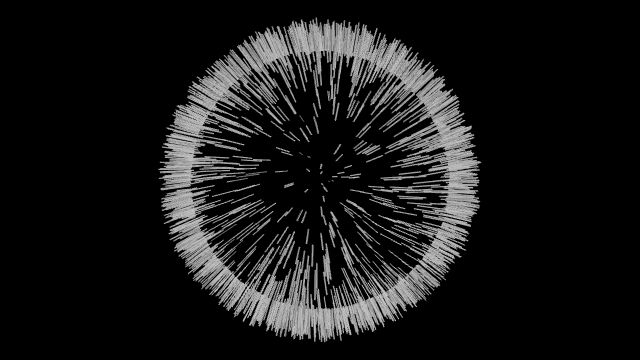
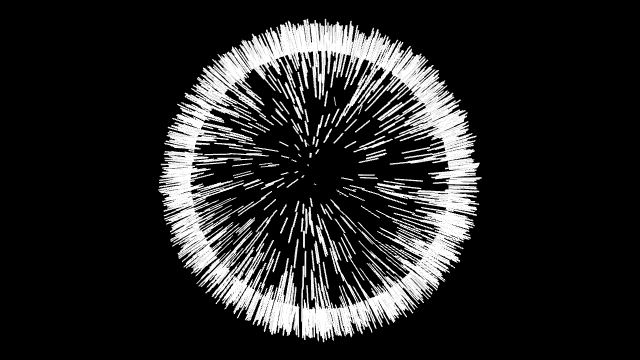
fix(3D): beginShape3D(.lines) / (.points) を stroke の色で描く (#739)
線・点のモードでも頂点へ fill 色を焼き込んでいたため、`stroke(緑)` を指定しても
塗りは fill 色のままだった。Processing の LINES / POINTS は `stroke()` が色を決める。

`.lines` / `.points` のときは `strokeColor` を焼き込むようにした（`bakedVertexColor`）。
`stroke()` を頂点の途中で変えれば線分ごと・点ごとに色が変わり、面モードで `fill()` を
変えるのと同じ書き味になる。`vertex(x, y, z, color)` で明示した色はこの経路を通らない
ので今までどおり勝ち、#825 の点ごとの色分けは保たれる。`noStroke()` のときは従来どおり
fill 色（線・点しか無いシェイプを黙って消さないため）。

あわせて `.points` の経路差も解消する。イミディエイトの `drawShape3DPoints()` は独自の
エンコードを持ちストロークパスが無かったため、記録経路（影オン）と別の絵になっていた。
三角形を組んだら `drawShape3DVertices` へ渡すだけにして、記録・カスタムマテリアル
（#826）・シャドウの扱いも 1 本にまとめた。

Assisted-by: Claude <noreply@anthropic.com>

Changed region(s): [[0.25, 0.0306, 0.75, 0.9472]]

diff --git a/Tests/metaphorTests/Canvas3DShapeStrokeColorTests.swift b/Tests/metaphorTests/Canvas3DShapeStrokeColorTests.swift
@@ -1,0 +1,163 @@
+import MetaphorTestSupport
+import Testing
+import simd
+
+@testable import MetaphorCore
+
+// MARK: - .lines / .points の色は stroke が決める（#739）
+
+/// `beginShape3D(.lines)` / `beginShape3D(.points)` が `stroke()` の色で描かれることを
+/// 画素で固定する（#739）。
+///
+/// 頂点は記録の時点で色を焼き込む（`Canvas3D+Shapes.swift`）。線・点のモードでも
+/// `fill` を焼き込んでいたため、`stroke(緑)` を指定しても塗りは fill 色のままだった。
+/// Processing では LINES / POINTS の色を決めるのは `stroke()` なので、線・点のモードでは
+/// stroke 色を焼き込む。`vertex(x, y, z, color)` で**明示した頂点カラーは今までどおり勝つ**
+/// （#825 の点ごとの色分けを保つため）。
+///
+/// あわせて `.points` の経路差も固定する。イミディエイトの `drawShape3DPoints()` は
+/// 独自のエンコードを持っていてストロークパスが無く、記録経路（影オン）はストロークパスを
+/// 通っていたので、**同じスケッチが `shadows()` の有無で別の絵になっていた**。
+@Suite("Canvas3D Shape Stroke Color", .enabled(if: MetalTestHelper.isGPUAvailable))
+@MainActor
+struct Canvas3DShapeStrokeColorTests {
+
+    private static let size = 64
+
+    /// 非黒画素を「赤寄り」「緑寄り」に数える。
+    private func tally(_ fb: GoldenImage) -> (red: Int, green: Int, other: Int) {
+        var red = 0, green = 0, other = 0
+        for y in 0..<fb.height {
+            for x in 0..<fb.width {
+                let i = (y * fb.width + x) * 4
+                let r = Int(fb.rgba[i]), g = Int(fb.rgba[i + 1]), b = Int(fb.rgba[i + 2])
+                if r + g + b == 0 { continue }
+                if r > 32 && g <= 32 && b <= 32 { red += 1 } else if g > 32 && r <= 32 && b <= 32 {
+                    green += 1
+                } else {
+                    other += 1
+                }
+            }
+        }
+        return (red, green, other)
+    }
+
+    /// 画面中央に水平線を 1 本引く。
+    ///
+    /// 線分は 0.5 単位幅の細い四角形で、等倍だとスクリーン上で 1 画素に満たない。
+    /// そのままだとストロークパスのワイヤーフレームが四角形を覆い隠してしまい、
+    /// 塗りに何色が乗っているかを測れない。線幅が数画素になるまで拡大して、
+    /// **内側**の色を見えるようにする（#739 の症状が出るのはこの状態）。
+    private func line(_ ctx: SketchContext) {
+        ctx.pushMatrix()
+        ctx.translate(Float(Self.size) / 2, Float(Self.size) / 2, 0)
+        ctx.scale(8, 8, 8)
+        ctx.beginShape3D(.lines)
+        ctx.vertex(-3, 0, 0)
+        ctx.vertex(3, 0, 0)
+        ctx.endShape3D()
+        ctx.popMatrix()
+    }
+
+    /// 画面中央に点を 1 つ置く（0.5 単位角の三角形なので拾えるまで拡大する）。
+    private func point(_ ctx: SketchContext) {
+        ctx.pushMatrix()
+        ctx.translate(Float(Self.size) / 2, Float(Self.size) / 2, 0)
+        ctx.scale(30, 30, 30)
+        ctx.beginShape3D(.points)
+        ctx.vertex(0, 0, 0)
+        ctx.endShape3D()
+        ctx.popMatrix()
+    }
+
+    @Test(".lines は fill ではなく stroke の色で描かれる",
+          arguments: [MainPassMode.immediate, .shadows])
+    func linesUseStrokeColor(mode: MainPassMode) throws {
+        let fb = try OffscreenSketchHarness.render(size: Self.size, mode: mode) { ctx in
+            ctx.background(Color(r: 0, g: 0, b: 0))
+            ctx.noLights()
+            ctx.fill(Color(r: 1, g: 0, b: 0))
+            ctx.stroke(Color(r: 0, g: 1, b: 0))
+            self.line(ctx)
+        }
+
+        let t = tally(fb)
+        #expect(t.green > 0, "線が描かれていない: \(t) — #739")
+        #expect(t.red == 0, "線に fill 色（赤）が残っている: \(t) — #739")
+    }
+
+    @Test(".points は fill ではなく stroke の色で描かれる",
+          arguments: [MainPassMode.immediate, .shadows])
+    func pointsUseStrokeColor(mode: MainPassMode) throws {
+        let fb = try OffscreenSketchHarness.render(size: Self.size, mode: mode) { ctx in
+            ctx.background(Color(r: 0, g: 0, b: 0))
+            ctx.noLights()
+            ctx.fill(Color(r: 1, g: 0, b: 0))
+            ctx.stroke(Color(r: 0, g: 1, b: 0))
+            self.point(ctx)
+        }
+
+        let t = tally(fb)
+        #expect(t.green > 0, "点が描かれていない: \(t) — #739")
+        #expect(t.red == 0, "点に fill 色（赤）が残っている: \(t) — #739")
+    }
+
+    @Test(".points の絵はイミディエイトと記録経路で一致する")
+    func pointsMatchAcrossModes() throws {
+        func render(_ mode: MainPassMode) throws -> GoldenImage {
+            try OffscreenSketchHarness.render(size: Self.size, mode: mode) { ctx in
+                ctx.background(Color(r: 0, g: 0, b: 0))
+                ctx.noLights()
+                ctx.fill(Color(r: 1, g: 0, b: 0))
+                ctx.stroke(Color(r: 0, g: 1, b: 0))
+                self.point(ctx)
+            }
+        }
+
+        let immediate = tally(try render(.immediate))
+        let shadows = tally(try render(.shadows))
+
+        // 完全一致まで求めるとストロークの深度バイアス由来の 1 画素差で折れるので、
+        // 「どちらの色がどれだけ出るか」で比べる（fill 色一色 ↔ fill+stroke 混在は桁で違う）
+        #expect(immediate.red == shadows.red && immediate.green > 0 && shadows.green > 0,
+                "shadows() の有無で .points の絵が変わる: immediate \(immediate) / shadows \(shadows) — #739")
+    }
+
+    @Test("明示した頂点カラーは stroke より優先される（#825 を保つ）",
+          arguments: [MainPassMode.immediate, .shadows])
+    func explicitVertexColorWinsOverStroke(mode: MainPassMode) throws {
+        let fb = try OffscreenSketchHarness.render(size: Self.size, mode: mode) { ctx in
+            ctx.background(Color(r: 0, g: 0, b: 0))
+            ctx.noLights()
+            ctx.fill(Color(r: 1, g: 1, b: 1))
+            ctx.stroke(Color(r: 0, g: 1, b: 0))
+            ctx.pushMatrix()
+            ctx.translate(Float(Self.size) / 2, Float(Self.size) / 2, 0)
+            ctx.scale(30, 30, 30)
+            ctx.beginShape3D(.points)
+            ctx.vertex(0, 0, 0, Color(r: 1, g: 0, b: 0))
+            ctx.endShape3D()
+            ctx.popMatrix()
+        }
+
+        let t = tally(fb)
+        #expect(t.red > 0,
+                "vertex(x, y, z, color) の赤が stroke 色に潰されている: \(t) — #825 / #739")
+    }
+
+    @Test("noStroke() の .lines / .points は従来どおり fill 色で描かれる",
+          arguments: [MainPassMode.immediate, .shadows])
+    func noStrokeFallsBackToFill(mode: MainPassMode) throws {
+        let fb = try OffscreenSketchHarness.render(size: Self.size, mode: mode) { ctx in
+            ctx.background(Color(r: 0, g: 0, b: 0))
+            ctx.noLights()
+            ctx.fill(Color(r: 1, g: 0, b: 0))
+            ctx.noStroke()
+            self.point(ctx)
+        }
+
+        let t = tally(fb)
+        #expect(t.red > 0 && t.green == 0,
+                "noStroke() のときは fill 色で描かれるべき: \(t) — #739")
+    }
+}

diff --git a/Sources/MetaphorCore/Drawing/Canvas3D+ShapeDrawing.swift b/Sources/MetaphorCore/Drawing/Canvas3D+ShapeDrawing.swift
@@ -332,7 +332,12 @@ extension Canvas3D {
         encoder.setDepthBias(0, slopeScale: 0, clamp: 0)
     }
 
-    // 各頂点を小さな三角形として描画し、ポイントをシミュレート
+    // 各頂点を小さな三角形として描画し、ポイントをシミュレート。
+    //
+    // 三角形を組んだら他のシェイプと同じ `drawShape3DVertices` へ渡す。かつてはここに
+    // 独自のエンコードがあり、ストロークパスを持たないぶん記録経路（影オン）と別の絵に
+    // なっていた（同じスケッチが `shadows()` の有無で変わる・#739）。経路を 1 本に
+    // まとめたので、記録・カスタムマテリアル（#826）・シャドウの扱いも自動的に揃う。
     func drawShape3DPoints() {
         guard !shapeVertices3D.isEmpty else { return }
 
@@ -347,57 +352,6 @@ extension Canvas3D {
             allVerts.append(Vertex3D(position: v.position + SIMD3( 0,  s, 0), normal: v.normal, color: v.color))
         }
 
-        // 一時 Mesh 化して drawMesh へ渡す（記録経路 #152 / カスタムマテリアル #826）
-        if shouldRouteShapeThroughMesh {
-            if let mesh = try? Mesh(device: device, vertices: allVerts, indices: nil) {
-                drawBakedShapeMesh(mesh)
-            }
-            return
-        }
-
-        guard let encoder = encoder else { return }
-
-        ensureSkyboxDrawn()
-
-        // 他の endShape パスと同様、先に保留中のインスタンスバッチを確定して
-        // 描画順序を保つ（これがないとポイントがバッチ済みシェイプより先に
-        // エンコードされる）
-        flushInstanceBatch()
-
-        let normalMatrix = computeNormalMatrix(from: currentTransform)
-        let viewProj = computeViewProjection()
-
-        encoder.setRenderPipelineState(pipelineState)
-        if let depthState = depthState {
-            encoder.setDepthStencilState(depthState)
-        }
-        encoder.setCullMode(.none)
-
-        // 点ごとの色は頂点カラーが運ぶ。ここに先頭頂点の色を入れると
-        // 「頂点[i] の色 × 頂点[0] の色」になり、点ごとの色分けが壊れる（#825）
-        var uniforms = Canvas3DUniforms(
-            modelMatrix: currentTransform,
-            viewProjectionMatrix: viewProj,
-            normalMatrix: normalMatrix,
-            color: Canvas3D.bakedShapeTint,
-            cameraPosition: SIMD4(cameraEye.x, cameraEye.y, cameraEye.z, 0),
-            time: currentTime,
-            lightCount: 0,
-            hasTexture: 0
-        )
-
-        guard bindShapeVertices(allVerts, on: encoder) else { return }
-        encoder.setVertexBytes(&uniforms, length: MemoryLayout<Canvas3DUniforms>.stride, index: 1)
-        encoder.setFragmentBytes(&uniforms, length: MemoryLayout<Canvas3DUniforms>.stride, index: 1)
-
-        var dummy = Light3D.zero
-        encoder.setFragmentBytes(&dummy, length: MemoryLayout<Light3D>.stride, index: 2)
-        var mat = currentMaterial
-        encoder.setFragmentBytes(&mat, length: MemoryLayout<Material3D>.stride, index: 3)
-
-        // ポイントはライティングなし（lightCount=0）なのでシャドウ無効
-        bindShadowResources(on: encoder, enabled: false)
-
-        encoder.drawPrimitives(type: .triangle, vertexStart: 0, vertexCount: allVerts.count)
+        drawShape3DVertices(allVerts)
     }
 }

diff --git a/Sources/MetaphorCore/Drawing/Canvas3D+Shapes.swift b/Sources/MetaphorCore/Drawing/Canvas3D+Shapes.swift
@@ -8,9 +8,11 @@ extension Canvas3D {
 
     /// 3D カスタムシェイプの頂点記録を開始します。
     ///
-    /// 頂点は記録時の fill 色を焼き込んで積むため、記録の途中で fill を変えると
-    /// 頂点ごとに色が付きます。描画側は焼き込み済みを前提に tint を白で送ります
-    /// （`Canvas3D.bakedShapeTint`。二重適用の防止, #825）。
+    /// 頂点は記録時の色を焼き込んで積むため、記録の途中で色を変えると頂点ごとに色が
+    /// 付きます。焼き込む色は面モード（`.polygon` / `.triangles` など）では fill、
+    /// **`.lines` / `.points` では stroke** です（線・点の色を決めるのは `stroke()`。
+    /// `noStroke()` のときは fill に戻ります, #739）。描画側は焼き込み済みを前提に
+    /// tint を白で送ります（`Canvas3D.bakedShapeTint`。二重適用の防止, #825）。
     ///
     /// - Parameter mode: シェイプのテッセレーションモード。
     public func beginShape(_ mode: ShapeMode = .polygon) {
@@ -30,7 +32,7 @@ extension Canvas3D {
     ///   - z: z座標。
     public func vertex(_ x: Float, _ y: Float, _ z: Float) {
         guard isRecordingShape3D else { return }
-        appendShapeVertex3D(position: SIMD3(x, y, z), color: fillColor, uv: .zero)
+        appendShapeVertex3D(position: SIMD3(x, y, z), color: bakedVertexColor, uv: .zero)
     }
 
     /// 頂点カラー付きの 3D 頂点を追加します。
@@ -62,7 +64,25 @@ extension Canvas3D {
     public func vertex(_ x: Float, _ y: Float, _ z: Float, _ u: Float, _ v: Float) {
         guard isRecordingShape3D else { return }
         shapeHasExplicitUV = true
-        appendShapeVertex3D(position: SIMD3(x, y, z), color: fillColor, uv: SIMD2(u, v))
+        appendShapeVertex3D(position: SIMD3(x, y, z), color: bakedVertexColor, uv: SIMD2(u, v))
+    }
+
+    // 色を明示しない頂点へ焼き込む色（#739）。
+    //
+    // `.lines` / `.points` は「線・点」なので、色を決めるのは `stroke()` — Processing の
+    // LINES / POINTS と同じ語彙にする。`stroke()` を頂点の途中で変えれば線分ごと・点ごとに
+    // 色が変わる。`vertex(x, y, z, color)` で明示した色はここを通らないので、
+    // 頂点カラーは今までどおり勝つ（#825 の点ごとの色分けを保つ）。
+    //
+    // `noStroke()` のときは従来どおり fill 色。線・点しか無いシェイプを黙って消さないため
+    // （`drawShape3DVertices` の `hasFill || hasStroke` ガードで、両方無ければ元から描かれない）。
+    private var bakedVertexColor: SIMD4<Float> {
+        switch shapeMode3D {
+        case .lines, .points:
+            return hasStroke ? strokeColor : fillColor
+        default:
+            return fillColor
+        }
     }
 
     // 頂点と UV を対で積む。両配列の添字対応はテッセレーション（インデックス列）が前提にする。

diff --git a/Sources/MetaphorCore/Sketch/SketchContext+3D.swift b/Sources/MetaphorCore/Sketch/SketchContext+3D.swift
@@ -7,8 +7,11 @@ extension SketchContext {
 
     /// 3D 頂点ベースのカスタムシェイプの記録を開始します。
     ///
-    /// 現在の `fill` は各頂点に 1 回だけ掛かります。`beginShape3D` と `endShape3D` の
-    /// 間で `fill` を変えると、その時点以降の頂点だけが新しい色になります（頂点ごとの色づけ）。
+    /// 現在の色は各頂点に 1 回だけ掛かります。`beginShape3D` と `endShape3D` の間で
+    /// 色を変えると、その時点以降の頂点だけが新しい色になります（頂点ごとの色づけ）。
+    /// 使われるのは面モード（`.polygon` / `.triangles` など）では `fill`、
+    /// **`.lines` / `.points` では `stroke`** です（Processing の LINES / POINTS と同じ。
+    /// `noStroke()` のときは `fill` に戻ります）。
     ///
     /// - Parameter mode: シェイプの描画モード（デフォルト `.polygon`）。
     public func beginShape3D(_ mode: ShapeMode = .polygon) {

diff --git a/Sources/MetaphorCore/Sketch/Sketch+3D.swift b/Sources/MetaphorCore/Sketch/Sketch+3D.swift
@@ -6,8 +6,11 @@ extension Sketch {
 
     /// 3D カスタムシェイプの頂点記録を開始します。
     ///
-    /// 現在の `fill` は各頂点に 1 回だけ掛かります。`beginShape3D` と `endShape3D` の
-    /// 間で `fill` を変えると、その時点以降の頂点だけが新しい色になります（頂点ごとの色づけ）。
+    /// 現在の色は各頂点に 1 回だけ掛かります。`beginShape3D` と `endShape3D` の間で
+    /// 色を変えると、その時点以降の頂点だけが新しい色になります（頂点ごとの色づけ）。
+    /// 使われるのは面モード（`.polygon` / `.triangles` など）では `fill`、
+    /// **`.lines` / `.points` では `stroke`** です（Processing の LINES / POINTS と同じ。
+    /// `noStroke()` のときは `fill` に戻ります）。
     ///
     /// - Parameter mode: シェイプモード（例: polygon、triangles、lines）。
     public func beginShape3D(_ mode: ShapeMode = .polygon) {

diff --git a/changelog.d/739.changed.md b/changelog.d/739.changed.md
@@ -1,0 +1,14 @@
+- `beginShape3D(.lines)` and `beginShape3D(.points)` now take their color from
+  `stroke()` instead of `fill()`, matching Processing's LINES / POINTS. Changing
+  `stroke()` between vertices colors each segment or point individually, exactly
+  as changing `fill()` does for the surface modes. Two things are deliberately
+  unchanged: a color passed explicitly to `vertex(x, y, z, color)` still wins
+  over both (so the per-point colors added in
+  [#825](https://github.com/shinyaoguri/metaphor/issues/825) keep working), and
+  a shape drawn under `noStroke()` still falls back to the fill color rather
+  than disappearing. Sketches that set `fill()` to color their lines or points
+  should set `stroke()` instead. Fixed alongside it: immediate-mode `.points`
+  had its own encoding path with no stroke pass, so the *same* sketch drew
+  differently depending on whether `shadows()` was enabled — points now go
+  through the same path as every other shape
+  ([#739](https://github.com/shinyaoguri/metaphor/issues/739))
